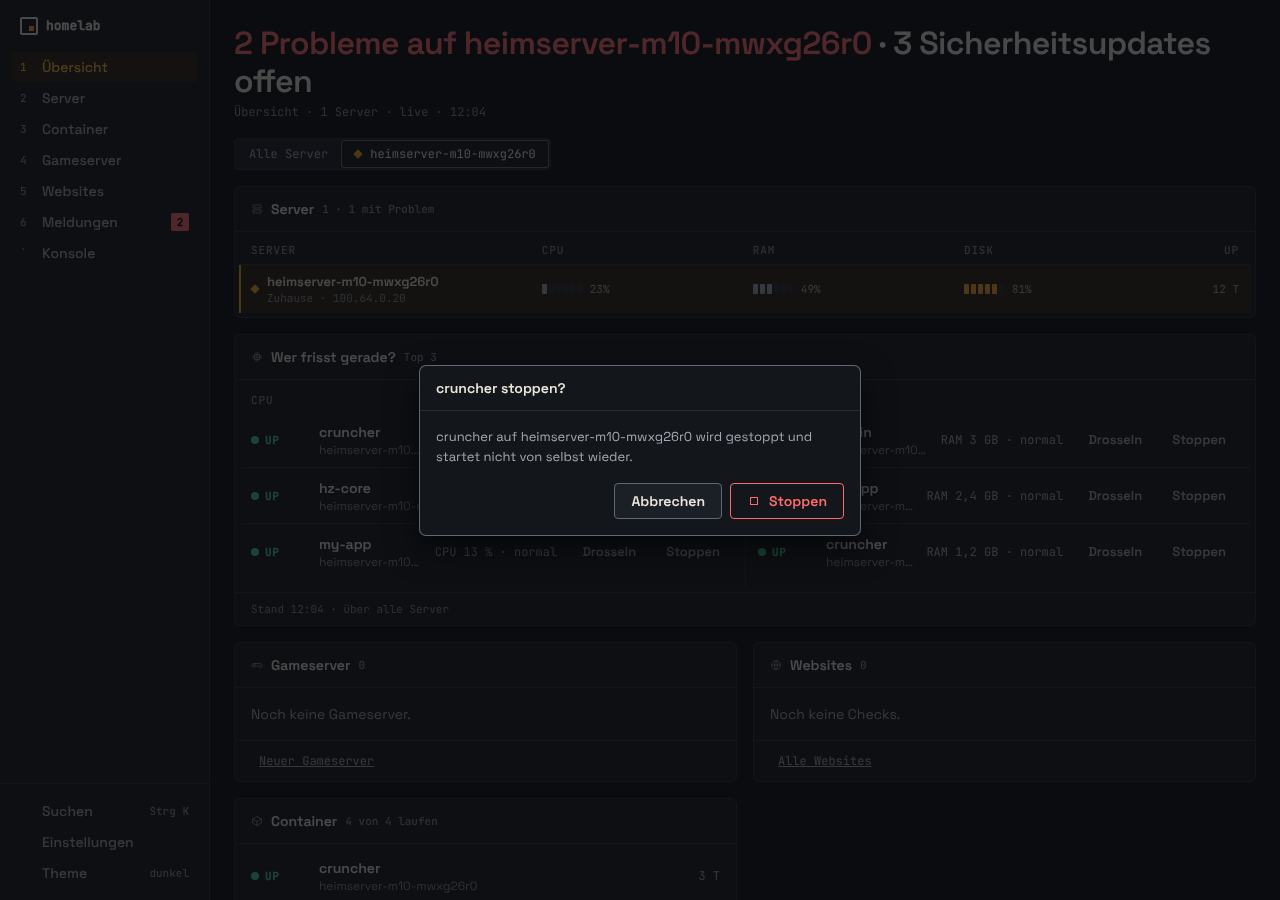
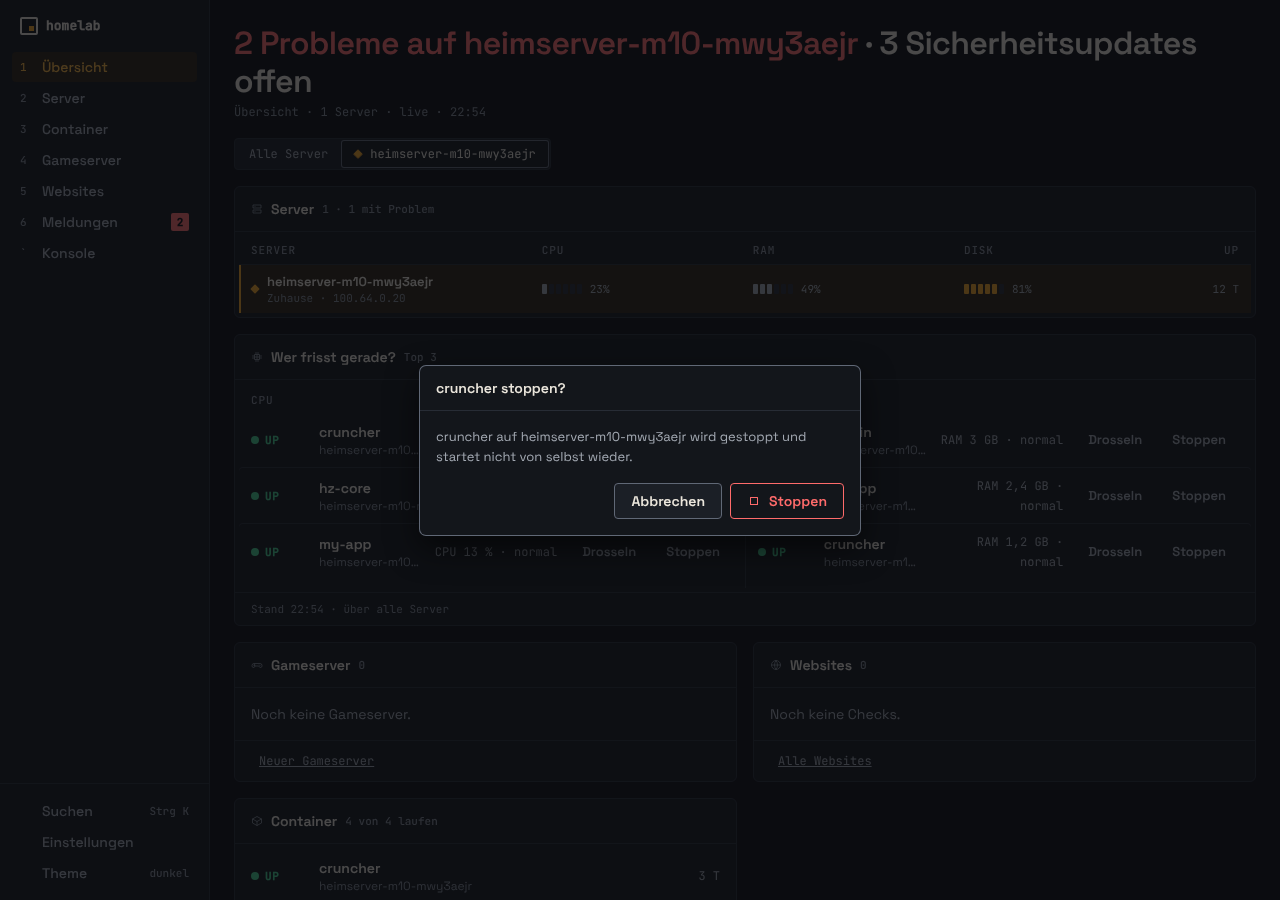
fix(web): throttled rows in "Wer frisst gerade?" wrap their meta instead of overflowing
A throttled row (meta plus Aufheben and Stoppen) was wider than its column; the
name shrank to nothing and the buttons slid under the RAM column, so a click on
Stoppen hit the RAM row (m10 e2e).

Claude-Session: https://claude.ai/code/session_01BsNkQeCpW2DbcCMsU41LKf

diff --git a/apps/web/src/styles/app.css b/apps/web/src/styles/app.css
@@ -1558,6 +1558,18 @@ body,
 .app-consumers-col + .app-consumers-col {
   border-left: 1px solid var(--line);
 }
+/* A throttled row's meta ("CPU 88 % · gedrosselt (2 Kerne) · niedrig") plus two
+   buttons is wider than a column: the meta wraps and the name keeps some room
+   instead of the buttons overflowing into the RAM column. */
+.app-consumers .hz-row-main {
+  min-width: 6rem;
+}
+.app-consumers .hz-row-meta {
+  flex: 0 1 auto;
+  min-width: 0;
+  white-space: normal;
+  text-align: right;
+}
 .app-consumers-head {
   margin: 0;
   padding: 0 var(--space-3) var(--space-1);
